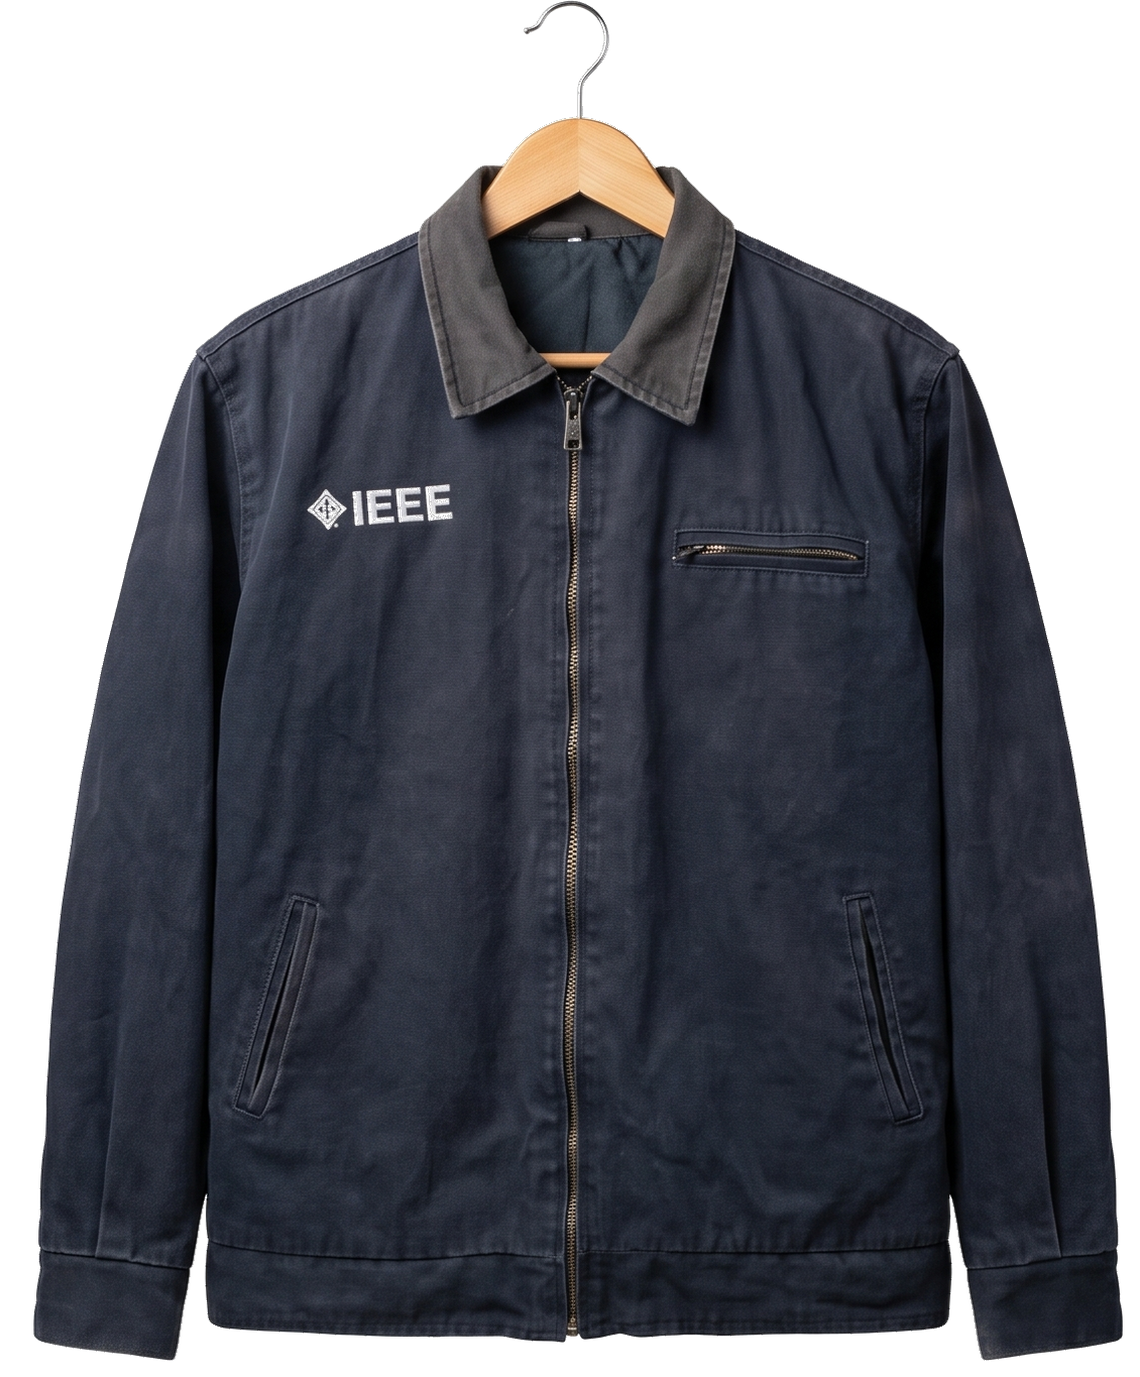
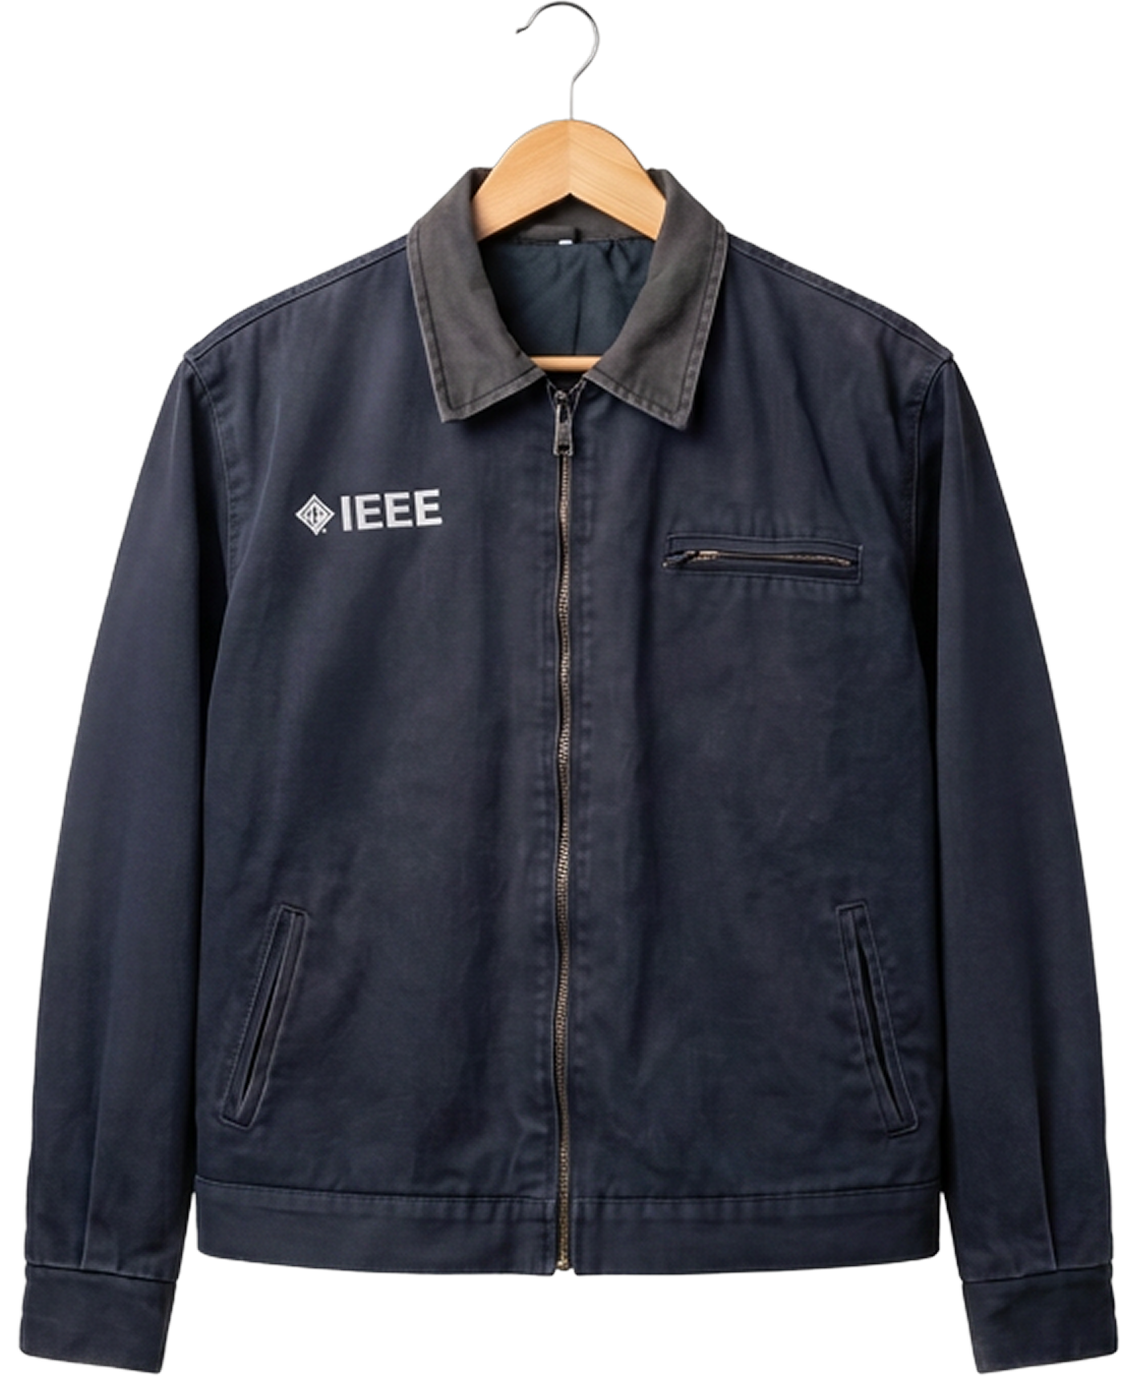
feat: has 3 need 4

diff --git a/app/(home)/_components/experience/ClothingItem.tsx b/app/(home)/_components/experience/ClothingItem.tsx
@@ -44,6 +44,8 @@ export function ClothingItem({
       ? 239
       : item.id === "exp-3"
       ? 210
+      : item.id === "exp-1"
+      ? 227
       : item.frontImage
       ? 230
       : 200;
@@ -53,6 +55,8 @@ export function ClothingItem({
       ? 73
       : item.id === "exp-3"
       ? 81
+      : item.id === "exp-1"
+      ? 74
       : item.sideImage
       ? 76
       : 58;
@@ -67,7 +71,7 @@ export function ClothingItem({
     width: frontWidth,
     height: 279,
     transformOrigin: `${Math.round(frontWidth / 2)}px 4px`, // Contact apex on chrome rail
-    transform: isSelected ? "rotateY(0deg)" : "rotateY(73deg)",
+    transform: isSelected ? "rotateY(0deg)" : "rotateY(-73deg)",
     opacity: isSelected ? 1 : 0,
     pointerEvents: isSelected ? "auto" : "none",
     cursor: "pointer",
